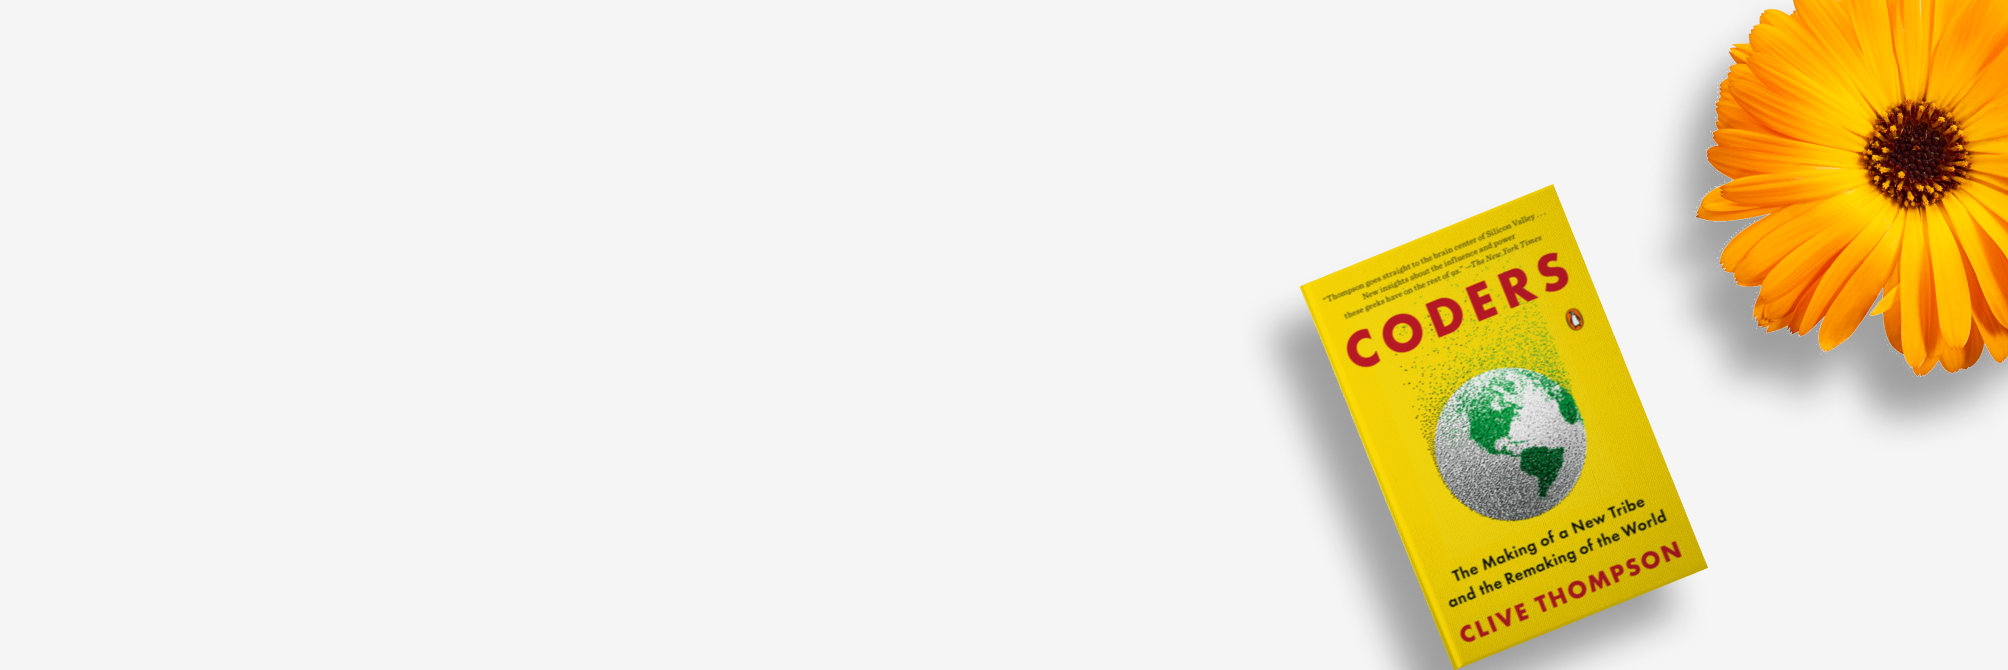
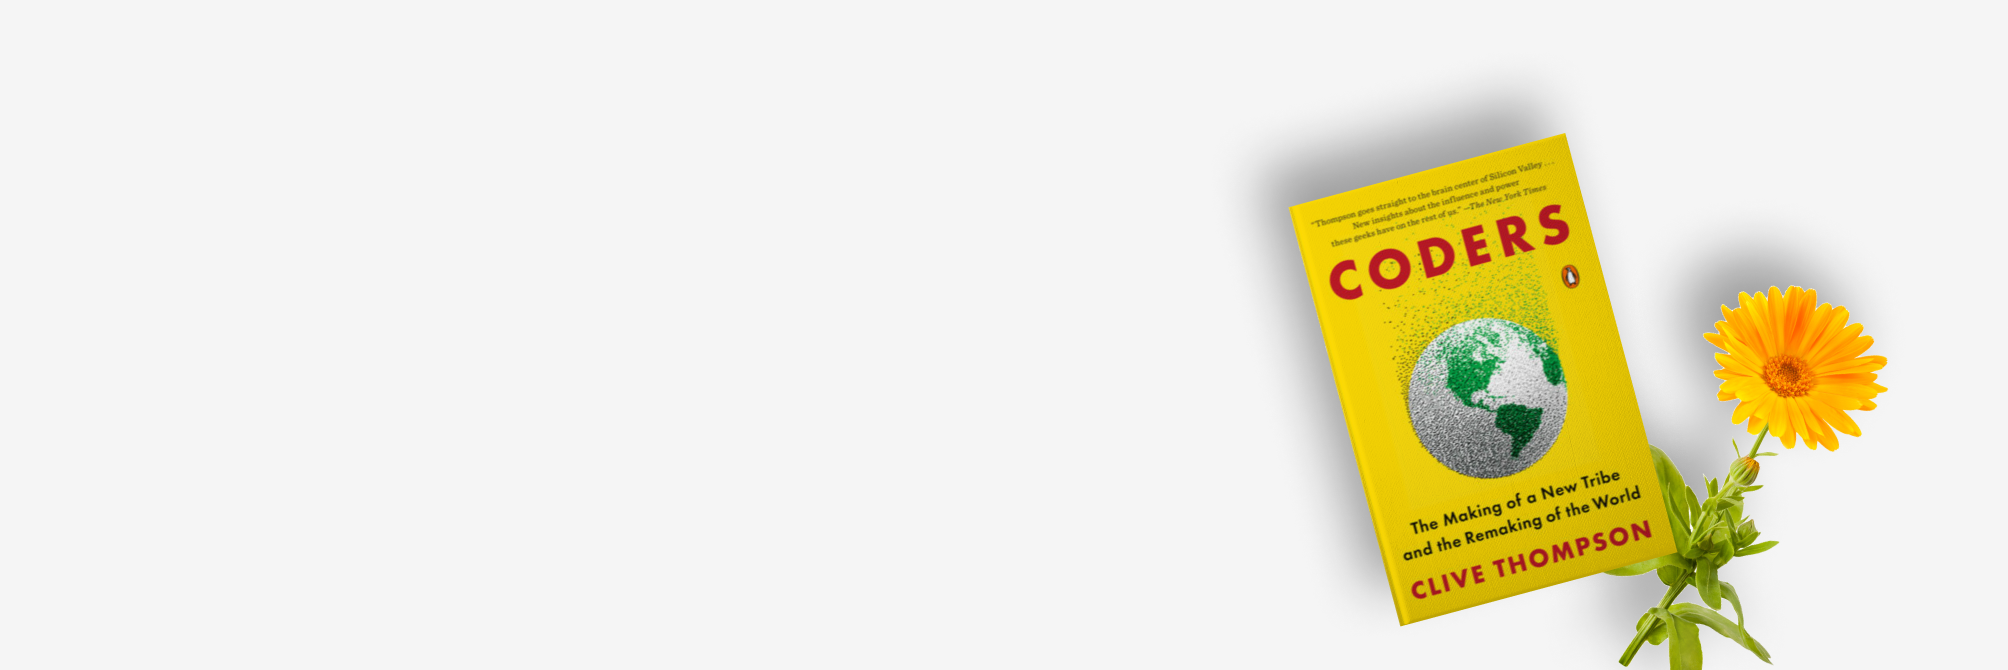
slider images changed

Changed region(s): [[0.6175, 0.0, 1.0, 1.0]]

diff --git a/src/app/pages/home/home.component.html b/src/app/pages/home/home.component.html
@@ -1,16 +1,17 @@
 <div id="home">
   <ngb-carousel [showNavigationArrows]="showNavigationArrows" [showNavigationIndicators]="showNavigationIndicators">
     <ng-template ngbSlide *ngFor="let slider of sliders">
-      <div class="carousel-img">
-        <img [src]="'../../../assets/img/'+ slider.img + '.png'" alt="Random slide" />
+      <div class="carousel-slide" [style]="'background-image: url(../../../assets/img/'+ slider.img + '.png)'">
+        <div class="carousel-caption">
+          <h6>{{slider.type}}</h6>
+          <h2>{{slider.discount}}% DISCOUNT </h2>
+          <p>Use <b class="code">{{slider.code}}</b> promo code to get your discount for the books of <span>{{slider.category}}</span>.</p>
+          <span>*Valid until {{slider.valid_until}}</span>
+          <button class="custom-button" routerLink="{{slider.link}}">SHOP NOW</button>
+        </div>
       </div>
-      <div class="carousel-caption">
-        <h6>{{slider.type}}</h6>
-        <h2>{{slider.discount}}% DISCOUNT </h2>
-        <p>Use <b class="code">{{slider.code}}</b> promo code to get your discount for the books of <span>{{slider.category}}</span>.</p>
-        <span>*Valid until {{slider.valid_until}}</span>
-        <button class="custom-button" routerLink="{{slider.link}}">SHOP NOW</button>
-      </div>
+
+
     </ng-template>
   </ngb-carousel>
 </div>

diff --git a/src/styles.scss b/src/styles.scss
@@ -114,6 +114,21 @@ h1, h2, h3, h4, h5, h6 {
 
 #home {
   .carousel {
+
+    .carousel-inner {
+      height: 600px;
+    }
+
+    .carousel-item, .carousel-slide {
+      width: 100%;
+      height: 100%;
+    }
+
+    .carousel-slide {
+      background-size: cover;
+      background-position: right;
+    }
+
     .carousel-caption {
       left: 15%;
       right: auto;
@@ -169,7 +184,6 @@ h1, h2, h3, h4, h5, h6 {
   }
 }
 
-
 .custom-button {
   display: flex;
   align-items: center;
@@ -188,7 +202,7 @@ h1, h2, h3, h4, h5, h6 {
     background: $primary-hover;
   }
 
-  &:active{
+  &:active {
     transform: translateY(2px);
     background: $primary-dark;
   }
